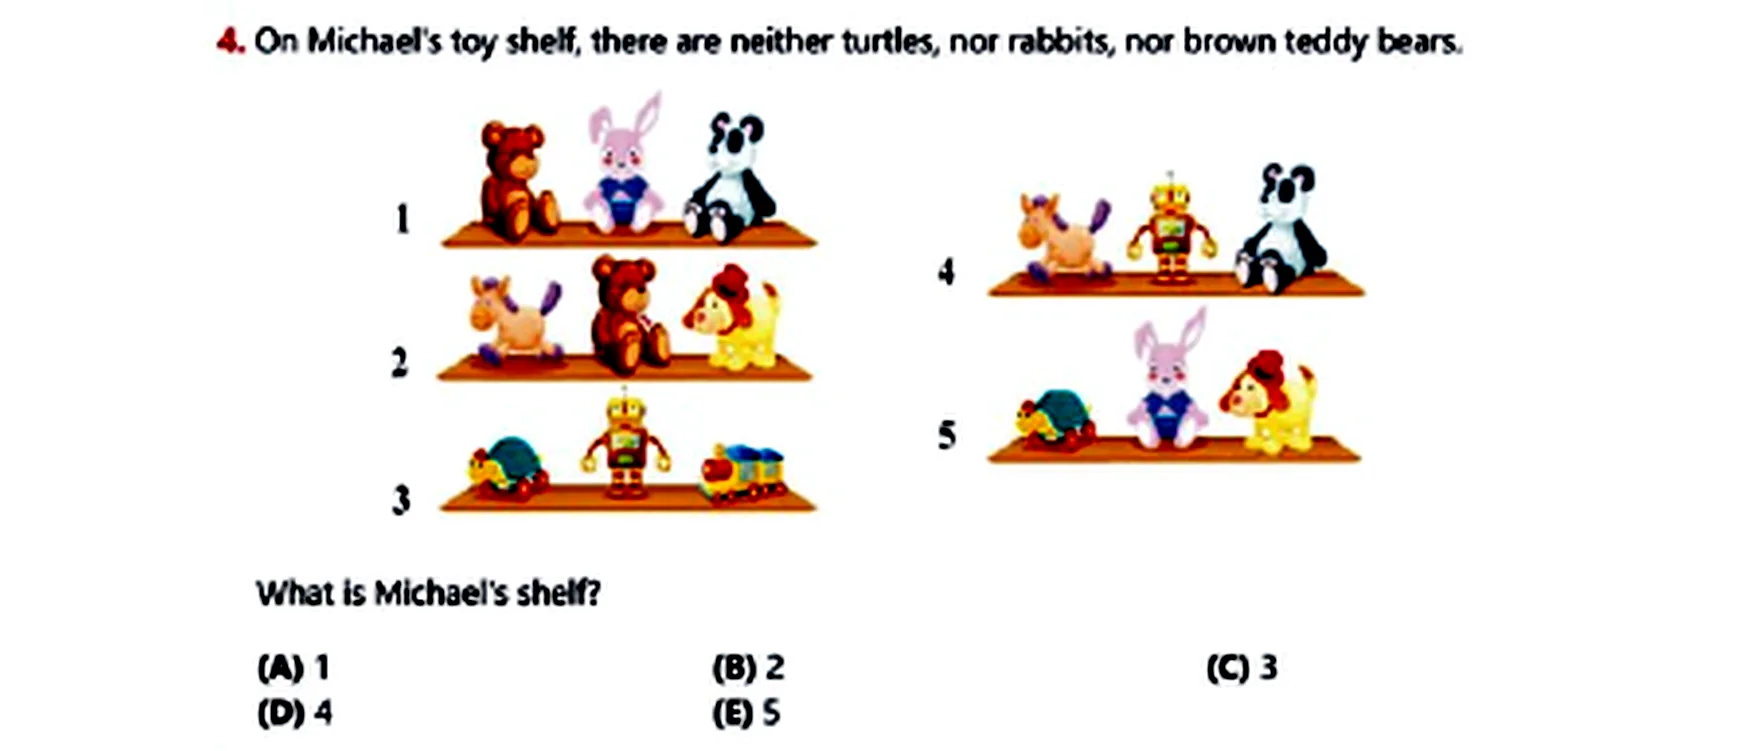
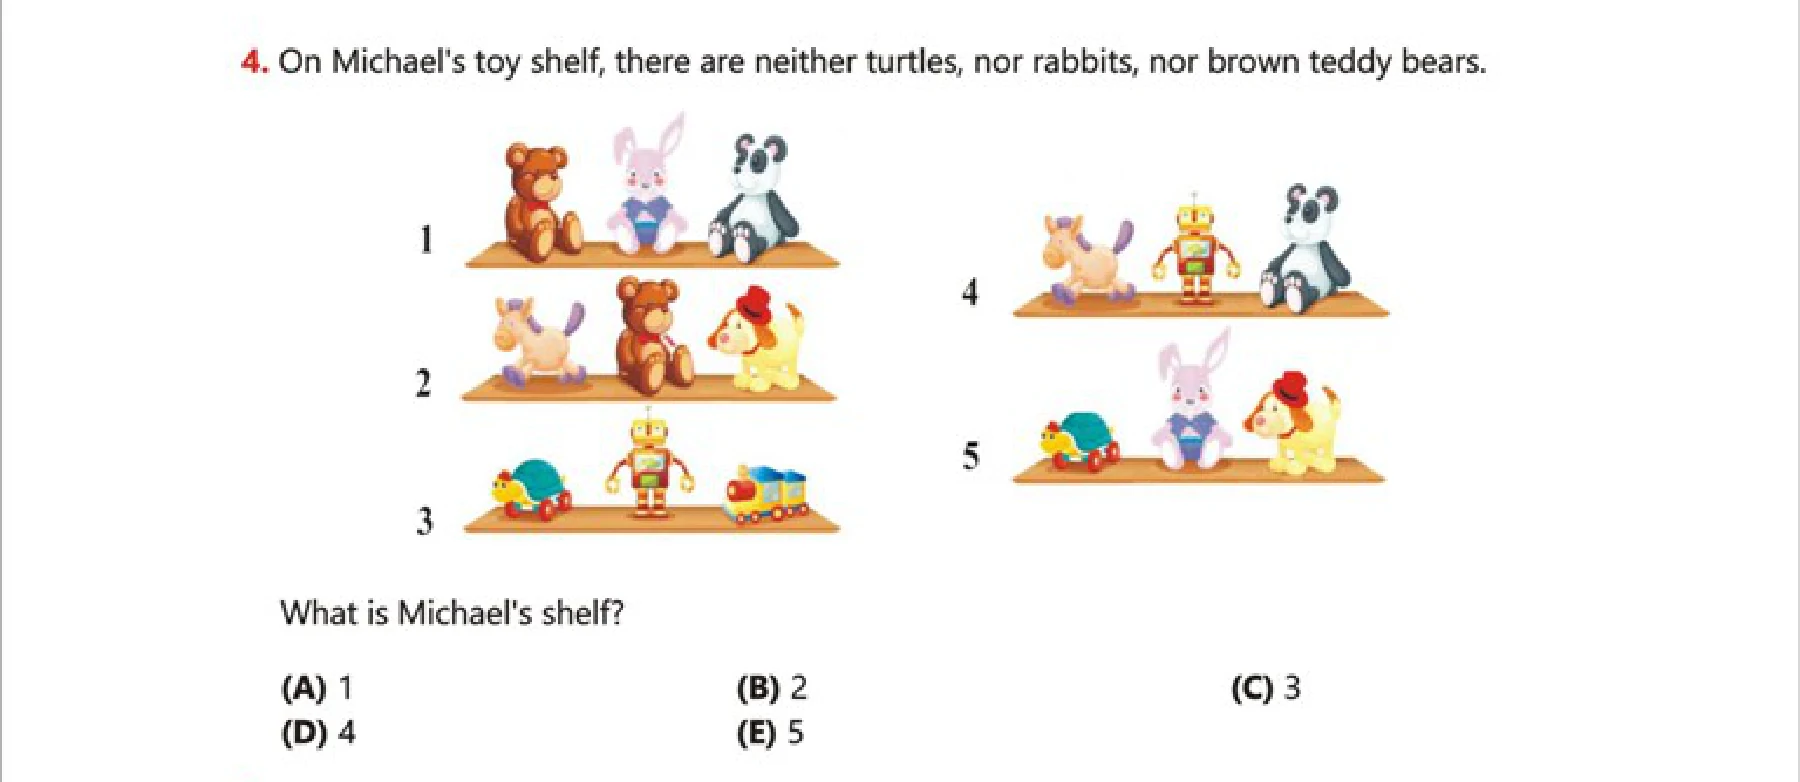
fix: re-render 2021 exam images without color-distorting post-processing
The scan-mode image pipeline upscaled low-resolution embedded page
images and then applied per-channel autocontrast + a 1.35x contrast
boost, intended for plain text scans. On the 2021 exam's colorful
diagrams this washed out and shifted colors, and the extra PIL resize
stacked on top of pdftoppm's own scaling made text look soft/broken.

Re-rendered all 24 question crops directly from the source PDF via
PyMuPDF (no poppler/tesseract available locally): render each page
clean, then crop per-question using manually verified boundaries.
Also fixed the root cause in build_question_seed.py so future runs of
the real pipeline don't regress this, and bumped webp quality 82->88.

diff --git a/app/scripts/build_question_seed.py b/app/scripts/build_question_seed.py
@@ -23,7 +23,7 @@ import xml.etree.ElementTree as ET
 from pathlib import Path
 from typing import Any
 
-from PIL import Image, ImageEnhance, ImageOps
+from PIL import Image, ImageOps
 
 ROOT = Path(__file__).resolve().parents[1]
 PDF_DIR = ROOT / "public/exams"
@@ -148,10 +148,13 @@ def render_pages(pdf: Path, pages: set[int], target: Path, scan: bool) -> dict[i
         run(["pdftoppm", "-f", str(page), "-l", str(page), "-r", "180", "-png", "-singlefile", str(pdf), str(prefix)], stdout=subprocess.DEVNULL, stderr=subprocess.DEVNULL)
         image = Image.open(str(prefix) + ".png").convert("RGB")
         if scan and image.width < 1800:
+            # Some official scans embed a low-resolution page image; upscale for
+            # legibility only. Do NOT autocontrast/enhance-contrast here: those ops
+            # are per-channel and visibly distort colors on colorful diagrams (this
+            # is what produced the washed-out/mis-colored 2021 exam crops before it
+            # was caught and fixed by re-rendering without this step).
             scale = 1800 / image.width
             image = image.resize((1800, int(image.height * scale)), Image.Resampling.LANCZOS)
-            image = ImageOps.autocontrast(image, cutoff=1)
-            image = ImageEnhance.Contrast(image).enhance(1.35)
         result[page] = image
     return result
 
@@ -333,7 +336,7 @@ def main() -> None:
                 end = positions.get(q + 1)
                 image = combine_question_image(page_images, positions[q], end)
                 image_path = output_dir / f"q{q:02d}.webp"
-                image.save(image_path, "WEBP", quality=82, method=6)
+                image.save(image_path, "WEBP", quality=88, method=6)
                 raw = ocr_image(image, temp) if scan else page_region_text(doc, positions, q, count)
                 stem, options = parse_options(raw)
                 section, points = question_meta(q, count)
